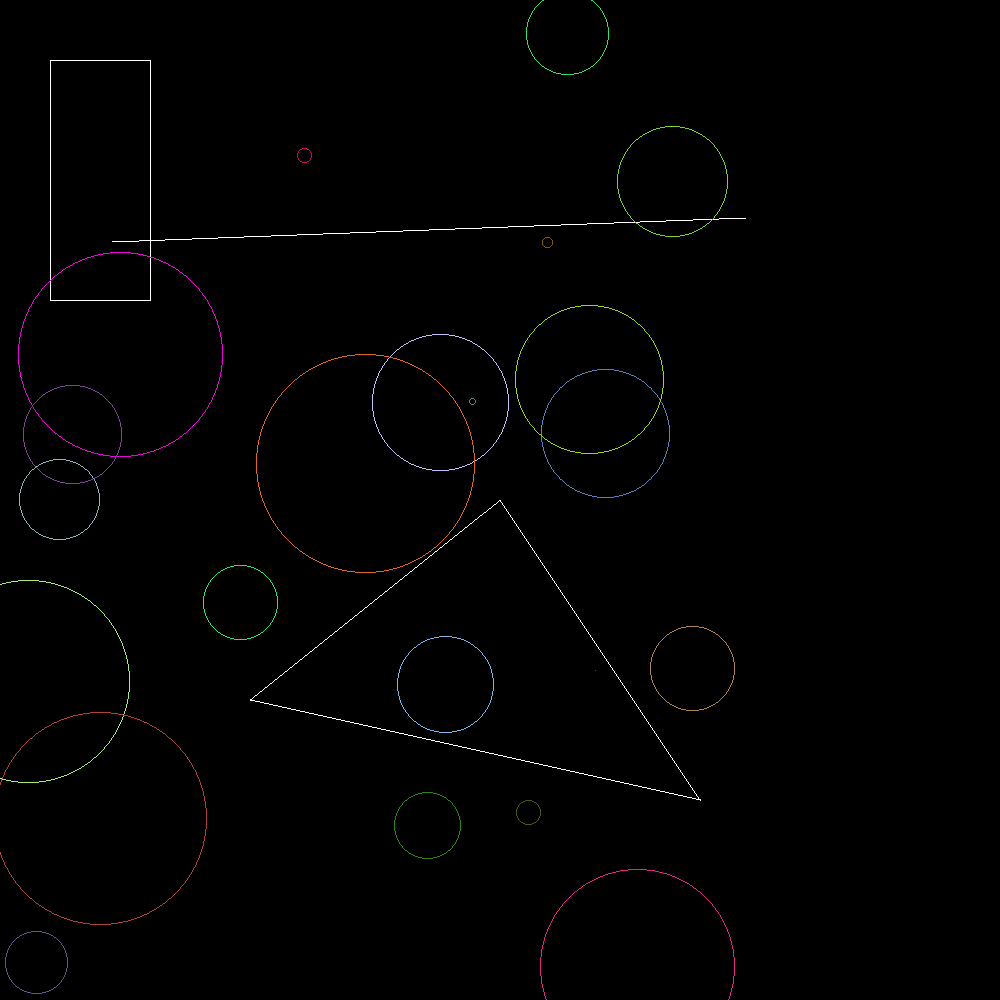
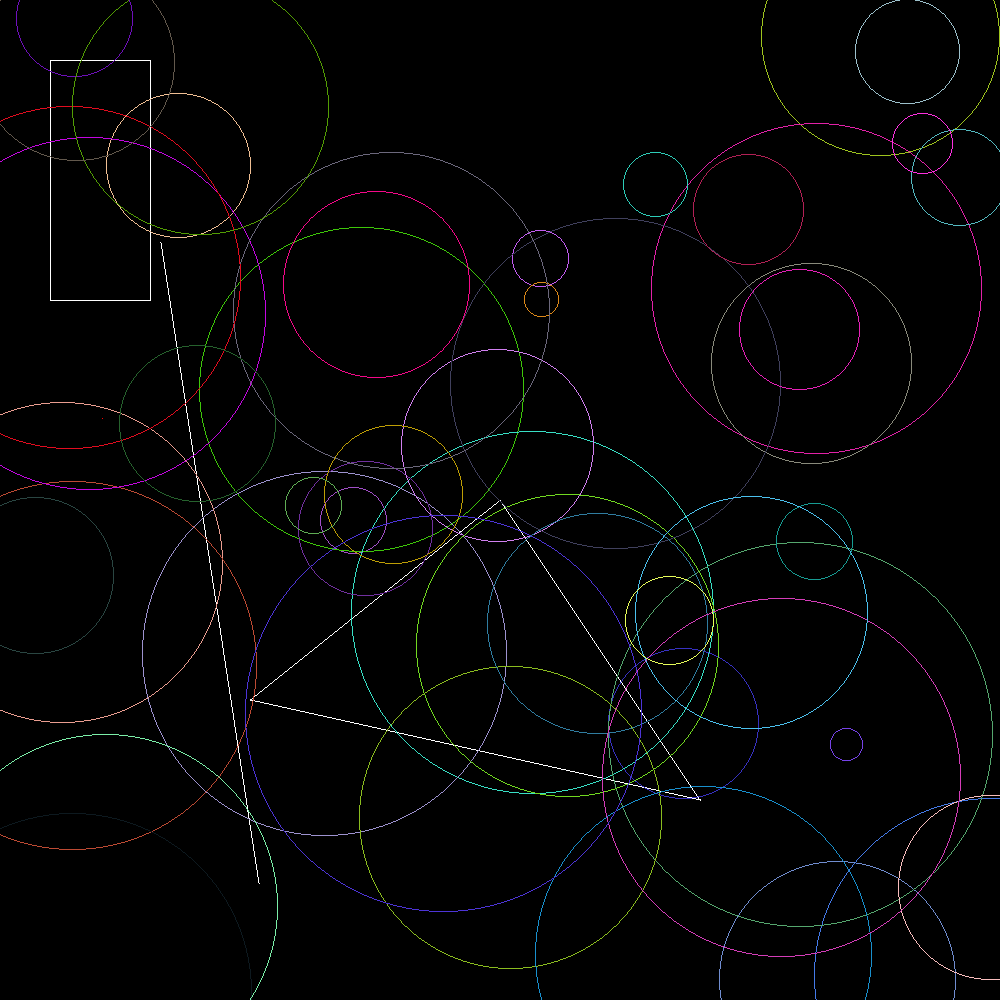
circle cols

diff --git a/drawing/src/geometrical_shapes.rs b/drawing/src/geometrical_shapes.rs
@@ -1,5 +1,4 @@
 use rand::Rng;
-use raster::Color;
 pub trait Drawable {
     fn draw(&self, image: &mut raster::Image);
     fn color(&self) -> raster::Color;
@@ -19,10 +18,10 @@ impl Point {
     }
 
     pub fn random(width: i32, height: i32) -> Self {
-        let mut rng = rand::thread_rng();
+        let mut rng = rand::rng();
         Point {
-            x: rng.gen_range(1..=width),
-            y: rng.gen_range(1..=height),
+            x: rng.random_range(1..=width),
+            y: rng.random_range(1..=height),
             // y: rand::random::<i32>() % height,
         }
     }
@@ -140,12 +139,6 @@ impl Rectangle {
         }
     }
 
-    // add random rec
-    pub fn random(width: i32, height: i32) -> Self {
-        let p1 = Point::random(width, height);
-        let p2 = Point::random(width, height);
-        Rectangle::new(&p1, &p2)
-    }
 }
 
 impl Drawable for Rectangle {
@@ -188,8 +181,10 @@ impl Circle {
     }
 
     pub fn random(width: i32, height: i32) -> Self {
-        let center = Point::random(width, height);
-        let radius = rand::random::<i32>() % 100 + 10;
+        let center: Point = Point::random(width, height);
+        let mut rng = rand::rng();
+     
+        let radius =  rng.random_range(10..=200);
         Circle::new(&center, radius)
     }
 }
@@ -231,12 +226,12 @@ impl Drawable for Circle {
 
     fn color(&self) -> raster::Color {
         // raster::Color::rgb(0, 255, 255)
-              let mut rng = rand::thread_rng();
+              let mut rng = rand::rng();
 
            raster::Color::rgb(
-            rng.gen_range(0..=255),
-            rng.gen_range(0..=255),
-            rng.gen_range(0..=255),
+            rng.random_range(0..=255),
+            rng.random_range(0..=255),
+            rng.random_range(0..=255),
         )
     }
 }
